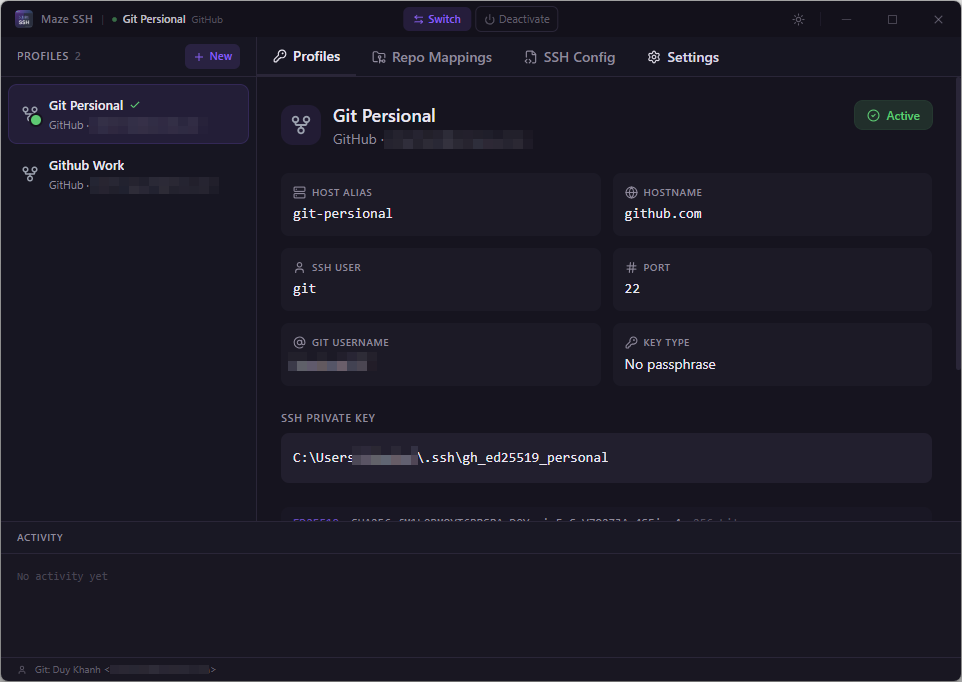
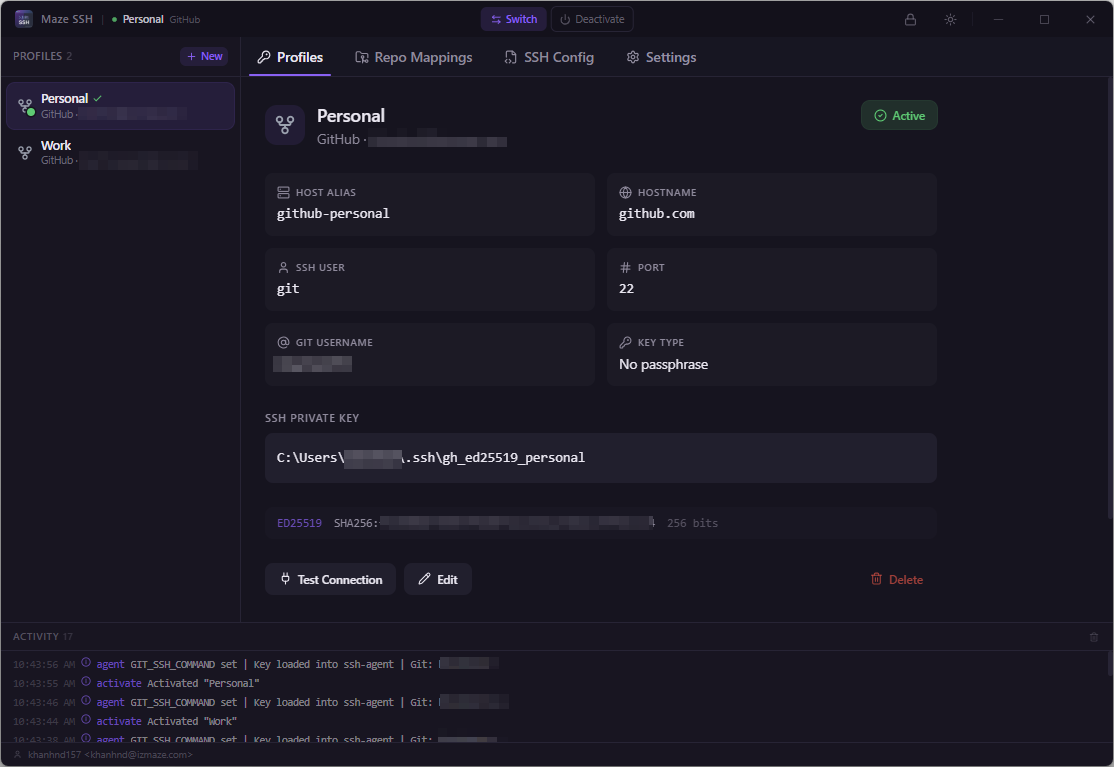
fix: Switch dropdown portal + auto-navigate to profile on switch
- Render dropdown via React Portal into document.body to escape
  overflow-hidden containers — dropdown no longer clipped by tab bar
- Fix click-outside handler: check both trigger ref and portal ref
  so clicking dropdown items triggers handleSwitch correctly
- On switch: select profile + navigate to Profiles tab immediately,
  then activate in background
- Updated screenshots

diff --git a/src/components/layout/TitleBar.tsx b/src/components/layout/TitleBar.tsx
@@ -1,4 +1,5 @@
 import { useState, useEffect, useRef, useCallback } from "react";
+import { createPortal } from "react-dom";
 import {
   Minus, Square, X, Copy, Moon, Sun, Circle,
   ArrowLeftRight, Power, Check, Lock, Loader2,
@@ -8,6 +9,7 @@ import { toast } from "sonner";
 import { useThemeStore } from "@/stores/themeStore";
 import { useAppStore } from "@/stores/appStore";
 import { useProfileStore } from "@/stores/profileStore";
+import { useUiStore } from "@/stores/uiStore";
 import { useSecurityStore } from "@/stores/securityStore";
 import { useLogStore } from "@/stores/logStore";
 import { getProviderLabel } from "@/types";
@@ -149,13 +151,21 @@ function SwitchDropdown() {
   const [open, setOpen] = useState(false);
   const [switching, setSwitching] = useState(false);
   const ref = useRef<HTMLDivElement>(null);
+  const dropdownRef = useRef<HTMLDivElement>(null);
   const { activateProfile, activeProfile } = useAppStore();
   const { profiles, fetchProfiles } = useProfileStore();
   const { addLog } = useLogStore();
 
   useEffect(() => {
     const handler = (e: MouseEvent) => {
-      if (ref.current && !ref.current.contains(e.target as Node)) setOpen(false);
+      const target = e.target as Node;
+      // Check both trigger button and portal dropdown
+      if (
+        ref.current && !ref.current.contains(target) &&
+        dropdownRef.current && !dropdownRef.current.contains(target)
+      ) {
+        setOpen(false);
+      }
     };
     document.addEventListener("mousedown", handler);
     return () => document.removeEventListener("mousedown", handler);
@@ -165,6 +175,11 @@ function SwitchDropdown() {
     async (p: ProfileSummary) => {
       setOpen(false);
       setSwitching(true);
+
+      // Select profile + switch to Profiles tab immediately
+      useProfileStore.getState().selectProfile(p.id);
+      useUiStore.getState().setActiveTab("profiles");
+
       try {
         const result = await activateProfile(p.id);
         await fetchProfiles();
@@ -183,9 +198,23 @@ function SwitchDropdown() {
     if (e.key === "Escape") setOpen(false);
   };
 
+  const btnRef = useRef<HTMLButtonElement>(null);
+  const [dropdownPos, setDropdownPos] = useState({ top: 0, left: 0 });
+
+  useEffect(() => {
+    if (open && btnRef.current) {
+      const rect = btnRef.current.getBoundingClientRect();
+      setDropdownPos({
+        top: rect.bottom + 4,
+        left: rect.left + rect.width / 2 - 120, // 120 = half of w-60 (240px)
+      });
+    }
+  }, [open]);
+
   return (
-    <div className="relative" ref={ref} onKeyDown={handleKeyDown}>
+    <div ref={ref} onKeyDown={handleKeyDown}>
       <button
+        ref={btnRef}
         type="button"
         onClick={() => setOpen(!open)}
         className="flex items-center gap-1 px-2.5 py-1 text-[11px] font-medium rounded-md bg-primary/15 text-primary hover:bg-primary/25 transition-colors"
@@ -193,8 +222,12 @@ function SwitchDropdown() {
         {switching ? <Loader2 size={11} className="animate-spin" /> : <ArrowLeftRight size={11} />}
         {switching ? "Switching..." : "Switch"}
       </button>
-      {open && (
-        <div className="absolute left-1/2 -translate-x-1/2 top-full mt-1.5 w-60 rounded-lg border bg-popover shadow-xl shadow-black/20 z-50 overflow-hidden">
+      {open && createPortal(
+        <div
+          ref={dropdownRef}
+          style={{ top: dropdownPos.top, left: dropdownPos.left }}
+          className="fixed w-60 rounded-lg border bg-popover shadow-xl shadow-black/20 z-999 overflow-hidden animate-fade-in"
+        >
           <div className="px-3 py-1.5 border-b">
             <p className="text-[10px] font-medium text-muted-foreground uppercase tracking-wider">
               Switch Identity
@@ -221,7 +254,8 @@ function SwitchDropdown() {
               </button>
             ))}
           </div>
-        </div>
+        </div>,
+        document.body,
       )}
     </div>
   );
